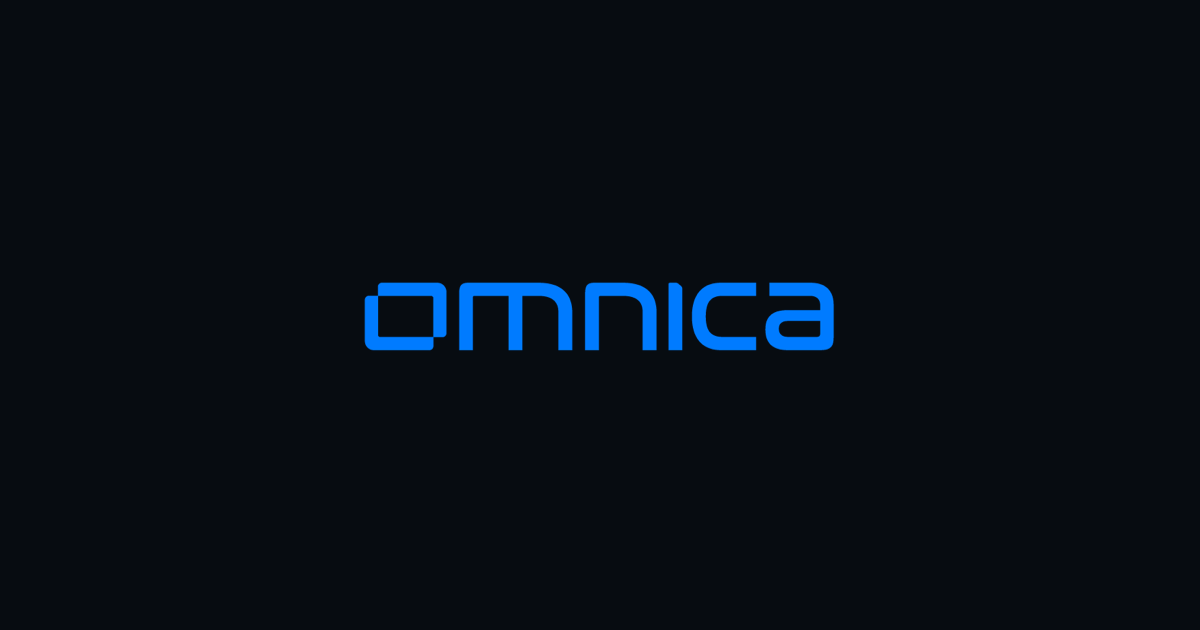
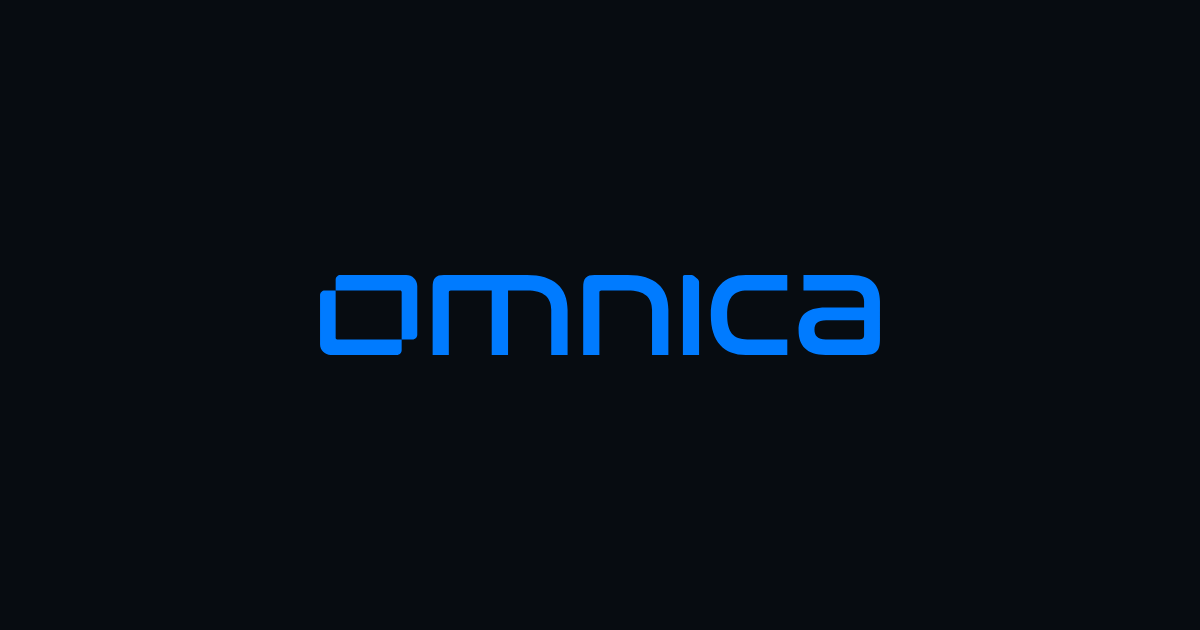
Wire up invite form, switch brand art to SVG, fix screenshot rendering
The previous commit could not deploy: the workflow's form guard refused to
build while FORMSPREE_ID was still REPLACE_ME. Sets the real endpoint.

Rendering fixes found while checking the page across engines:

- Shots render eagerly and decode synchronously. An image that arrives after
  its masked ancestor has painted does not invalidate that layer in Chromium,
  so a lazy/async shot showed an empty box until an unrelated repaint.
- The Observe crop stops short of the source's right edge, which included the
  captured window's own border and read as a stray line beside the "now"
  marker, and starts at the window edge rather than 8px into the text.
- Each shot mask lives on its own element instead of compositing two layers.
  mask-composite: intersect autoprefixes to -webkit-mask-composite: source-in,
  which can blank the element in WebKit.
- Logo and mark are SVG with width: auto, without which their intrinsic width
  attributes win over the CSS height and render the artwork stretched flat.

Changed region(s): [[0.2467, 0.4222, 0.74, 0.573]]

diff --git a/src/styles/global.css b/src/styles/global.css
@@ -118,8 +118,12 @@ textarea::placeholder {
   padding-top: 28px;
 }
 
+/* width:auto is load-bearing -- the intrinsic width/height attributes on the
+   <img> are presentational hints, so without it the attribute width wins and
+   the mark renders stretched flat. Same for .footer__mark. */
 .header__logo {
   height: 22px;
+  width: auto;
   display: block;
 }
 
@@ -269,11 +273,24 @@ textarea::placeholder {
   border-radius: 14px;
 }
 
-/* Each shot is framed by a bespoke crop + feathered mask so it reads as a
-   detail lifted out of the product, not a boxed screenshot. */
+/* Each shot is a bespoke crop with feathered edges, so it reads as a detail
+   lifted out of the product rather than a boxed screenshot.
+
+   The feathering is split across two nested elements -- .shot carries the
+   vertical fade, .shot__inner the horizontal one -- so that each element has
+   exactly ONE mask layer. A single element with two layers requires
+   `mask-composite: intersect`, which Lightning CSS unavoidably autoprefixes to
+   `-webkit-mask-composite: source-in`; in WebKit that composites the bottom
+   layer against an empty destination and can blank the element entirely.
+   Nesting sidesteps compositing altogether and behaves identically everywhere. */
 .shot {
   position: relative;
   overflow: hidden;
+}
+
+.shot__inner {
+  position: absolute;
+  inset: 0;
 }
 
 .shot img {
@@ -283,13 +300,18 @@ textarea::placeholder {
 
 .shot--observe {
   aspect-ratio: 1.73;
+  -webkit-mask-image: linear-gradient(to bottom, transparent 0%, black 14%, black 65%, transparent 100%);
   mask-image: linear-gradient(to bottom, transparent 0%, black 14%, black 65%, transparent 100%);
 }
 
+/* Crops the source to x 0..1583 of 1600. The right bound is deliberate: past
+   it the capture includes the app window's own border, which reads as a stray
+   vertical line next to the "now" marker. The left bound is the window edge --
+   cropping any further in slices the first glyph off "CLAUDE CODE" / "flex2". */
 .shot--observe img {
-  width: 102.5%;
-  left: -2.5%;
-  top: -4%;
+  width: 101.07%;
+  left: 0;
+  top: -3.17%;
 }
 
 .shot--direct {
@@ -312,13 +334,19 @@ textarea::placeholder {
   top: 4%;
 }
 
+/* Vertical feather on the outer element ... */
 .shot--direct,
 .shot--orchestrate {
-  mask-image:
-    linear-gradient(to right, transparent 0%, black 10%, black 90%, transparent 100%),
-    linear-gradient(to bottom, transparent 0%, black 10%, black 88%, transparent 100%);
-  mask-composite: intersect;
-  -webkit-mask-composite: source-in;
+  -webkit-mask-image: linear-gradient(to bottom, transparent 0%, black 10%, black 88%, transparent 100%);
+  mask-image: linear-gradient(to bottom, transparent 0%, black 10%, black 88%, transparent 100%);
+}
+
+/* ... horizontal feather on the inner one. Same stops as the mockup's second
+   mask layer; splitting them across two elements only changes the mechanism. */
+.shot--direct .shot__inner,
+.shot--orchestrate .shot__inner {
+  -webkit-mask-image: linear-gradient(to right, transparent 0%, black 10%, black 90%, transparent 100%);
+  mask-image: linear-gradient(to right, transparent 0%, black 10%, black 90%, transparent 100%);
 }
 
 /* --- invite ------------------------------------------------------------- */
@@ -485,6 +513,7 @@ textarea::placeholder {
 
 .footer__mark {
   height: 20px;
+  width: auto;
   display: block;
   opacity: 0.85;
 }

diff --git a/src/components/FeatureRow.jsx b/src/components/FeatureRow.jsx
@@ -14,8 +14,17 @@ export default function FeatureRow({ eyebrow, title, bullets, shot, src, alt, fl
           </ul>
         </div>
         <div className="feature__media">
+          {/* Two nested elements so each carries a single-layer mask -- see the
+              note on .shot in global.css.
+
+              These load eagerly and decode synchronously on purpose. An image
+              that arrives after its masked ancestor has painted does not
+              invalidate that layer in Chromium, so a lazy/async shot renders as
+              an empty box until something unrelated forces a repaint. */}
           <div className={`shot shot--${shot}`}>
-            <img src={src} alt={alt} loading="lazy" decoding="async" />
+            <div className="shot__inner">
+              <img src={src} alt={alt} decoding="sync" />
+            </div>
           </div>
         </div>
       </div>

diff --git a/src/components/Header.jsx b/src/components/Header.jsx
@@ -1,7 +1,13 @@
 export default function Header({ onRequestInvite }) {
   return (
     <header className="wrap header">
-      <img className="header__logo" src="/brand/omnica-logo.png" alt="Omnica" width="666" height="108" />
+      <img
+        className="header__logo"
+        src="/brand/omnica-logo.svg"
+        alt="Omnica"
+        width="651"
+        height="94"
+      />
       <button className="btn" type="button" onClick={onRequestInvite}>
         Request an invite
       </button>

diff --git a/src/components/Footer.jsx b/src/components/Footer.jsx
@@ -1,7 +1,13 @@
 export default function Footer() {
   return (
     <footer className="wrap footer">
-      <img className="footer__mark" src="/brand/omnica-mark.png" alt="Omnica" width="191" height="159" />
+      <img
+        className="footer__mark"
+        src="/brand/omnica-mark.svg"
+        alt="Omnica"
+        width="113"
+        height="94"
+      />
       <div className="footer__meta">© {new Date().getFullYear()} Omnica</div>
     </footer>
   )

diff --git a/public/404.html b/public/404.html
@@ -40,6 +40,7 @@
       }
       img {
         height: 24px;
+        width: auto;
         display: block;
       }
       h1 {
@@ -69,7 +70,7 @@
     </style>
   </head>
   <body>
-    <img src="/brand/omnica-logo.png" alt="Omnica" />
+    <img src="/brand/omnica-logo.svg" alt="Omnica" />
     <h1>This page doesn't exist.</h1>
     <p>The link may be out of date — Omnica's site was recently rebuilt.</p>
     <a class="home" href="/">Back to omnica.ai</a>

diff --git a/src/config.js b/src/config.js
@@ -8,7 +8,7 @@
 // The deploy workflow refuses to build while this is still REPLACE_ME, so an
 // unwired form can't reach production. See scripts/check-form-config.mjs.
 // ---------------------------------------------------------------------------
-export const FORMSPREE_ID = 'REPLACE_ME'
+export const FORMSPREE_ID = 'moeadoro'
 
 export const FORMSPREE_ENDPOINT = `https://formspree.io/f/${FORMSPREE_ID}`
 

diff --git a/README.md b/README.md
@@ -65,3 +65,10 @@ scripts/
 - **Screenshots are WebP**, downscaled from the design export (1.3 MB → 119 kB).
   `shots/orchestrate.webp` keeps its native width because the layout scales it
   to 186%.
+- **Logo and mark are SVG**, generated from `Omnica_Logo-01.svg` in the brand
+  folder by cropping the viewBox to the artwork's true bounds and dropping the
+  opaque black backing rect the Illustrator export includes. `brand/og.png` and
+  the favicons are rasterised from those SVGs.
+- **`width: auto` on the logo images is load-bearing.** Their intrinsic
+  `width`/`height` attributes are presentational hints that CSS `height` alone
+  doesn't override, so omitting it renders the mark stretched flat.
